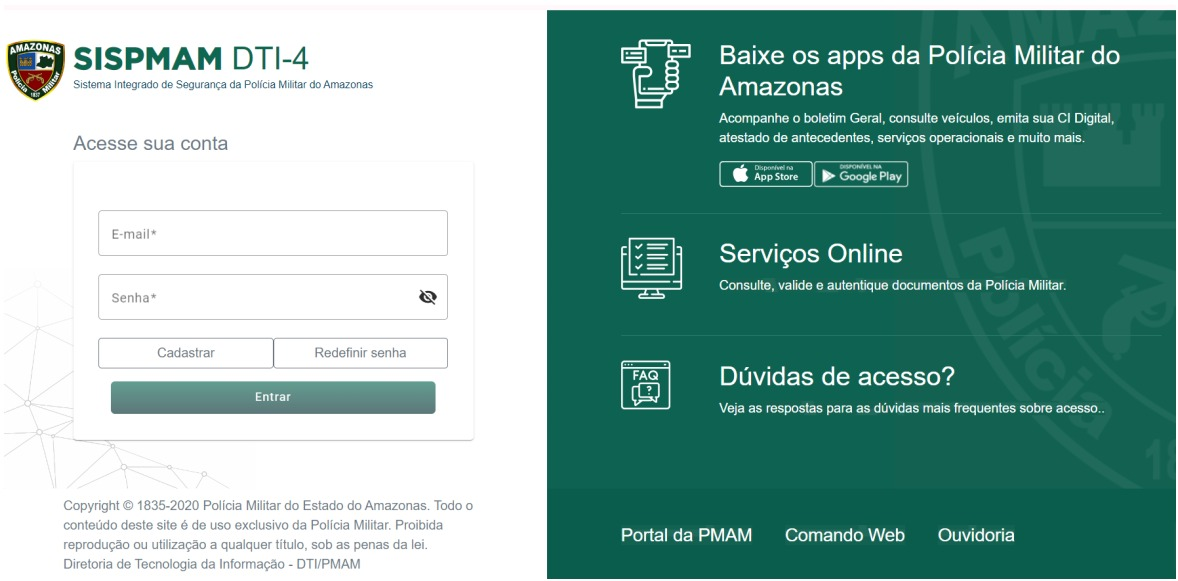
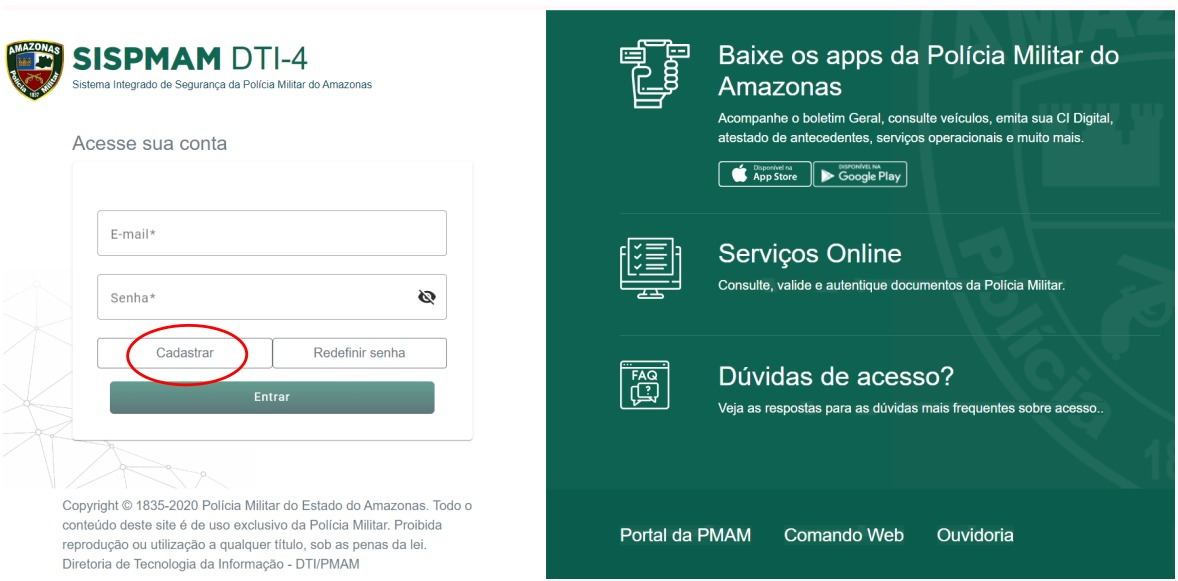
mudanças nas imagens (fim expediente 19 fev)

diff --git a/sispmam/loginrascunho.md b/sispmam/loginrascunho.md
@@ -34,7 +34,16 @@ Siga o passo a passo após acessar o link: [https://sis.pmam.online/home](https:
 #### Passo 1: Clique em Cadastrar.
 ![Imagem de Cadastro 01](img/imgCadastroN01.jpg)
 
+#### Passo 2: Na página de Cadastro do usuário, preencha as informações dos campos em branco.
+![Imagem de Cadastro 02](img/imgCadastroN02.jpg)
 
+##### Obs. 1: No campo Unidade Federal selecione Amazonas e no campo Convênio selecione PM/PMAM.
+
+![Imagem de Cadastro 03](img/imgCadastroN03.jpg)
+
+##### Obs. 2: Digite seu e-mail e CPF, posteriormente clique no botão “Verificar”.
+
+![Imagem de Cadastro 04](img/imgCadastroN04.jpg)
 
 ### 3.2 Cadastro SISPMAM - Aplicativo 
 
